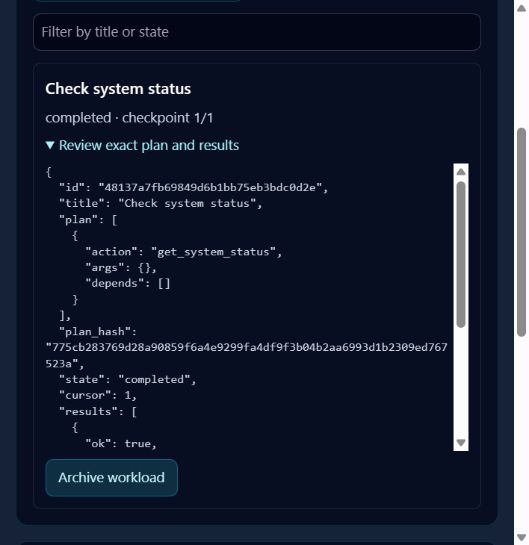
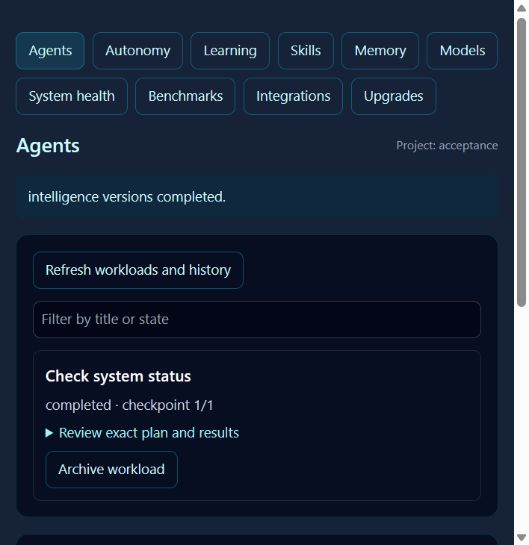
Record pull request and clean-run Windows qualification scope

Changed region(s): [[0.0302, 0.0, 0.9981, 0.9358], [0.0605, 0.967, 0.9074, 0.9982], [0.9679, 0.5615, 0.9981, 0.6239]]

diff --git a/docs/intelligence-verification.md b/docs/intelligence-verification.md
@@ -129,3 +129,21 @@ Commits: `0f14866` persistent services; `ad553a6` guarded workbench/recovery/MCP
 `0d103d1` local Chromium fix. It started one commit ahead of `origin/main`.
 
 ![Native status workload completed](evidence/intelligence-agents.jpg)
+
+## Pull request and working tree
+
+Review: [draft PR #42](https://github.com/vyndivybes/spark/pull/42), branch
+`codex/openjarvis-intelligence`. This has not been merged or deployed.
+
+The first clean GitHub Actions run passed Ubuntu intelligence and the broader
+JS/build job. Its Windows run exposed a test-only temporary-path alias mismatch:
+`test_post_application_failure_restores_backup` compared path spellings rather
+than filesystem identity. Commit `7003b39` uses `samefile` and asserts that both
+staged and live validation occurred. The seven targeted repair tests pass locally;
+CI is rerun on that revision. The production rollback path did not change.
+
+The local working tree intentionally retains three unrelated modified files:
+`backend/settings.json`, `backend/spark_groq_capabilities.py`, and
+`src/components/PrinterWindow.jsx`, plus the two pre-existing `.bak` files.
+These are not in the PR. No task-owned implementation remains uncommitted after
+handover; the exact final documentation revision is available with `git rev-parse HEAD`.
